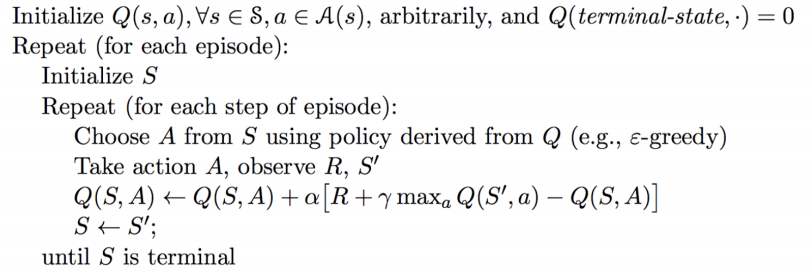
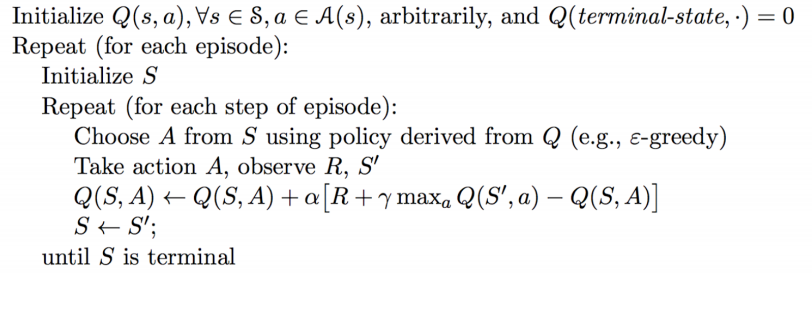
images and spacing updated

Changed region(s): [[0.0, 0.0, 0.9852, 0.8791], [0.0308, 0.9084, 0.3079, 0.9963], [0.0, 0.0, 0.0308, 0.0293]]

diff --git a/docs/final.md b/docs/final.md
@@ -47,7 +47,7 @@ During the main loop, our bot chooses a new action every 200 ms. As the time tak
 ### Dual Q-Tables:
 An important aspect for our recent efforts on our project was the added use of the bow. Rather than simply making ‘fire’ a single discrete action, we wanted to give the bot the ability to learn how far to extend the bow on its own. This led to a large increase in the attack action space of the bot, and because moving and attacking were part of the same possible actions list, it was forced to decide between one or the other. As we wanted a bot that could both move and attack at the same time, we decided to train two separate Q-Tables, one associated with movement actions, the other with attack actions. While the state space is the same for both (described above), the possible action list is very different. From any given state in the movement Q-Table, the possible actions are the same:
 
-    Movement Actions: [ "move 1", "move 0", "move -1", "strafe 1", "strafe -1" ]
+        Movement Actions: [ "move 1", "move 0", "move -1", "strafe 1", "strafe -1" ]
 
 This gave the bot the ability to move in any possible direction, from any given state, or choose to stand still.
 The attack action space is state dependent. While holding the sword, it can choose to attack or switch to the bow. If it is holding the bow, each state’s given actions are to move to the next draw state, or to fire the bow early. Finally, when the draw reaches ‘draw 5’ the only possible action is ‘fire’.
@@ -71,6 +71,7 @@ As far as qualitative observations go, a distinct difference can be seen in the 
 For quantitative evaluation, we used two metrics. At the end of each fight, we checked the health of our agent (‘Agent Post-Fight Health’) and recorded the time it took for the agent to kill the mob (‘Time to Kill’). Each round was 25 seconds long, so the longest possible time was 25 seconds. In the following graphs, we show the statistics for each enemy type in side-by-side graphs. Displayed below is the scatter plot representing the data collected at the end of each fight. The horizontal lines represent the mean of the overall data for rounds with a specific mob type.
 
 
+##
 #### Blaze:
 ![alt text](https://raw.githubusercontent.com/StStevens/TeamBabylon/master/docs/res/blz.png)
 
